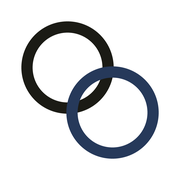
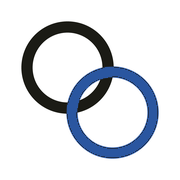
brand: draw the mark's second ring in the accent blue

Changed region(s): [[0.3611, 0.3611, 0.8889, 0.8889]]

diff --git a/assets/css/app/base.css b/assets/css/app/base.css
@@ -344,7 +344,7 @@ body {
      how far a period has run. 7.15:1 on white, so it is the link text as well
      as the ring and the fill; a price is never blue, or it reads as a link.
      --mark marks a stretch of time on the storefront; a chart's dates are drawn
-     in --ink-2. 藍墨 (ink blue) is the same hue pressed:
+     in --ink-2. The second ring of the goen mark is this blue too. 藍墨 (ink blue) is the same hue pressed:
      hover, text on a blue tint, and a label that is not an action. The tints
      are opaque so text on them is measured against one colour. */
   --accent: #2a56a0;
@@ -618,5 +618,15 @@ body {
 
   .ui-period > i[data-span="extra"][data-cell="today"] {
     mask: linear-gradient(90deg, #000 60%, transparent 0) 0 0 / 8px 100% round border-box;
+  }
+}
+
+/* An SVG keeps the colours it was drawn in, so on a dark Canvas the near-black
+   ring vanishes; below 1024px the mark is the only thing left of the home link. */
+@media (forced-colors: active) {
+  .goen-header__mark circle,
+  .goen-footer__mark circle,
+  .goen-adminbar__mark circle {
+    stroke: CanvasText;
   }
 }

diff --git a/assets/css/app/app.css b/assets/css/app/app.css
@@ -7931,7 +7931,7 @@ input.goen-check {
 }
 
 .about__ring--accent {
-  stroke: var(--accent-deep);
+  stroke: var(--accent);
 }
 
 /* Where the two rings meet is lighter than the paper around it, not darker:
@@ -7939,6 +7939,16 @@ input.goen-check {
 .about__lens {
   fill: var(--n-0);
   fill-opacity: 0.6;
+}
+
+@media (forced-colors: active) {
+  .about__ring {
+    stroke: CanvasText;
+  }
+
+  .about__lens {
+    fill: none;
+  }
 }
 
 .about__title {

diff --git a/internal/ui/icons/icons_templ.go b/internal/ui/icons/icons_templ.go
@@ -47,7 +47,7 @@ func Mark(class string) templ.Component {
 		if templ_7745c5c3_Err != nil {
 			return templ_7745c5c3_Err
 		}
-		templ_7745c5c3_Err = templruntime.WriteString(templ_7745c5c3_Buffer, 2, "\" viewBox=\"0 0 40 40\" fill=\"none\" aria-hidden=\"true\"><circle cx=\"15\" cy=\"15\" r=\"9\" stroke=\"var(--fg)\" stroke-width=\"2.5\"></circle> <circle cx=\"25\" cy=\"25\" r=\"9\" stroke=\"var(--accent-deep)\" stroke-width=\"2.5\"></circle></svg>")
+		templ_7745c5c3_Err = templruntime.WriteString(templ_7745c5c3_Buffer, 2, "\" viewBox=\"0 0 40 40\" fill=\"none\" aria-hidden=\"true\"><circle cx=\"15\" cy=\"15\" r=\"9\" stroke=\"var(--fg)\" stroke-width=\"2.5\"></circle> <circle cx=\"25\" cy=\"25\" r=\"9\" stroke=\"var(--accent)\" stroke-width=\"2.5\"></circle></svg>")
 		if templ_7745c5c3_Err != nil {
 			return templ_7745c5c3_Err
 		}
